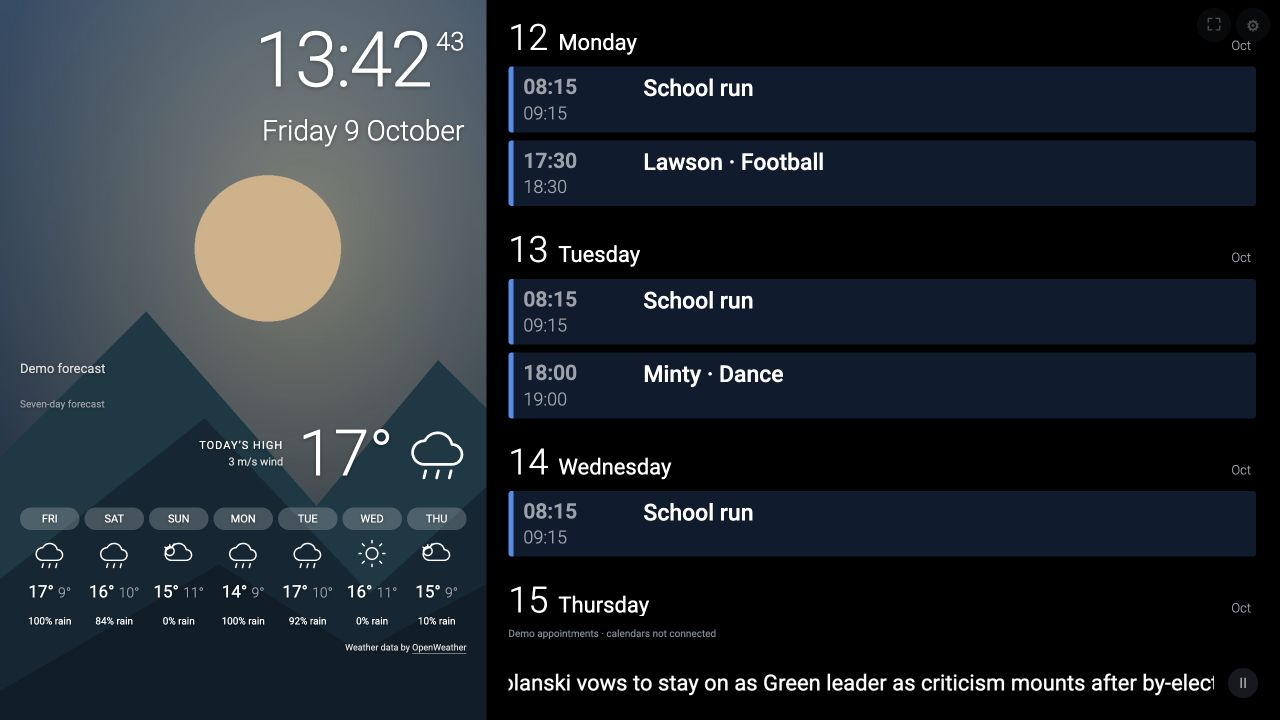
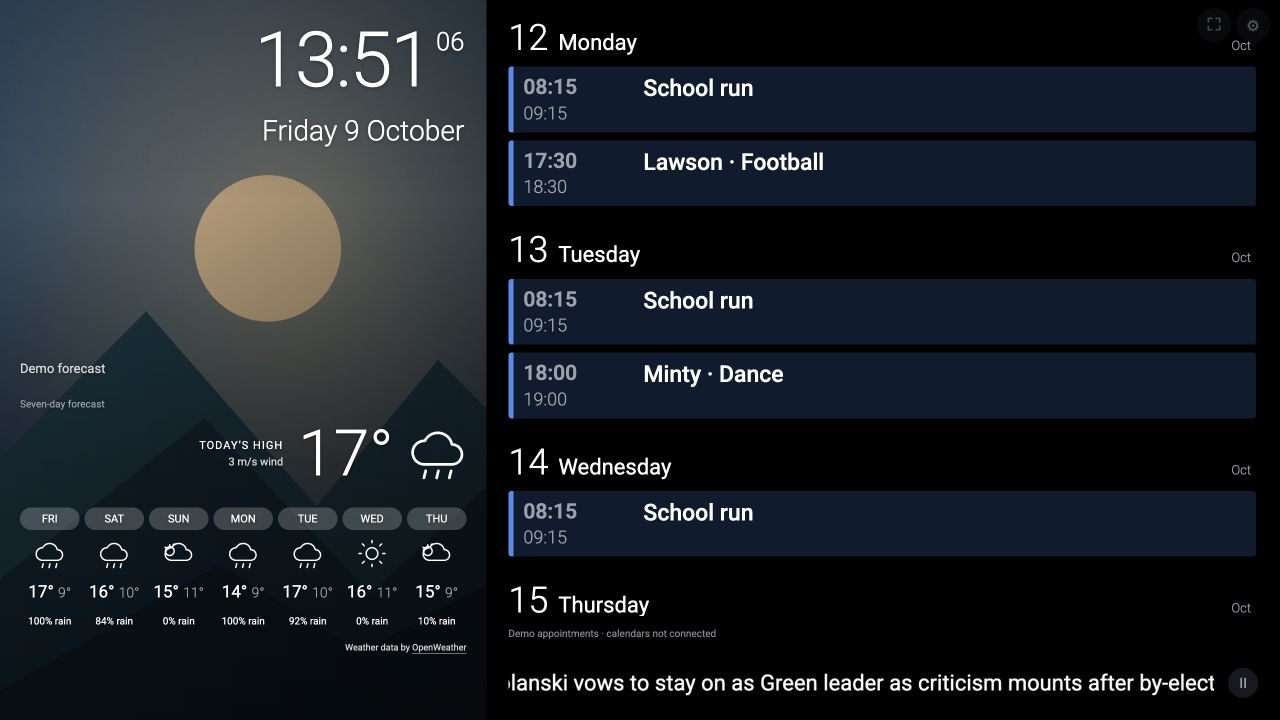
Keep photo overlays above slideshow layers for readable text

Changed region(s): [[0.0, 0.0, 0.9688, 1.0]]

diff --git a/public/style.css b/public/style.css
@@ -100,3 +100,6 @@ body[data-theme=metro] .forecastDay>strong{width:100%}
 body[data-theme=metro] .dashboard .clockCard{border:0}
 
 @media(hover:none){body[data-theme=metro] .calendar nav{opacity:1}}
+body[data-theme=metro] .dashboard .photo:after{z-index:3}
+body[data-theme=metro] .dashboard .photo button{z-index:4}
+body[data-theme=metro] .weatherWidget .empty{color:#fff;padding:12px 0;margin:0}
